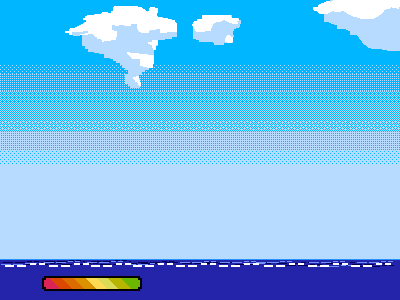
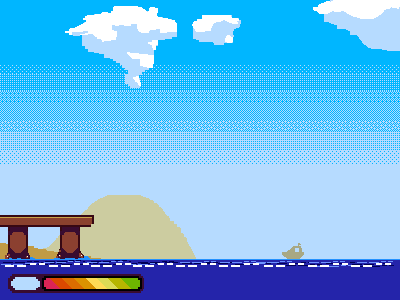
added energy bar title background

Changed region(s): [[0.0, 0.63, 0.51, 0.87], [0.0, 0.9, 0.36, 0.99], [0.69, 0.81, 0.78, 0.87]]

diff --git a/JS/energy_bar.js b/JS/energy_bar.js
@@ -10,12 +10,13 @@ class EnergyBar {
   }
 
   drawTitle(type){
+     // this.ctx.fillStyle = "white";
     if(type === "Power"){
-      this.ctx.font = "5px 'Press Start 2P',cursive";
-      this.ctx.fillText("POWER",10,286);
+      this.ctx.font = "7px 'Press Start 2P',cursive";
+      this.ctx.fillText("PWR",15,287);
     }else if (type === "Wire"){
-      this.ctx.font = "5px 'Press Start 2P',cursive";
-      this.ctx.fillText("WIRE", 10, 286);
+      this.ctx.font = "6px 'Press Start 2P',cursive";
+      this.ctx.fillText("WIRE", 14, 286.6);
     }
   }
 

diff --git a/bundle.js b/bundle.js
@@ -80,12 +80,13 @@ class EnergyBar {
   }
 
   drawTitle(type){
+     // this.ctx.fillStyle = "white";
     if(type === "Power"){
-      this.ctx.font = "5px 'Press Start 2P',cursive";
-      this.ctx.fillText("POWER",10,286);
+      this.ctx.font = "7px 'Press Start 2P',cursive";
+      this.ctx.fillText("PWR",15,287);
     }else if (type === "Wire"){
-      this.ctx.font = "5px 'Press Start 2P',cursive";
-      this.ctx.fillText("WIRE", 10, 286);
+      this.ctx.font = "6px 'Press Start 2P',cursive";
+      this.ctx.fillText("WIRE", 14, 286.6);
     }
   }
 

diff --git a/main.css b/main.css
@@ -6,7 +6,7 @@
         top: 10%;
         left: 25%;
         background: transparent;
-        background-image: url('./images/background.png');
+        background-image: url('./images/background2.png');
         background-repeat: no-repeat;
         background-size: cover;
       }
